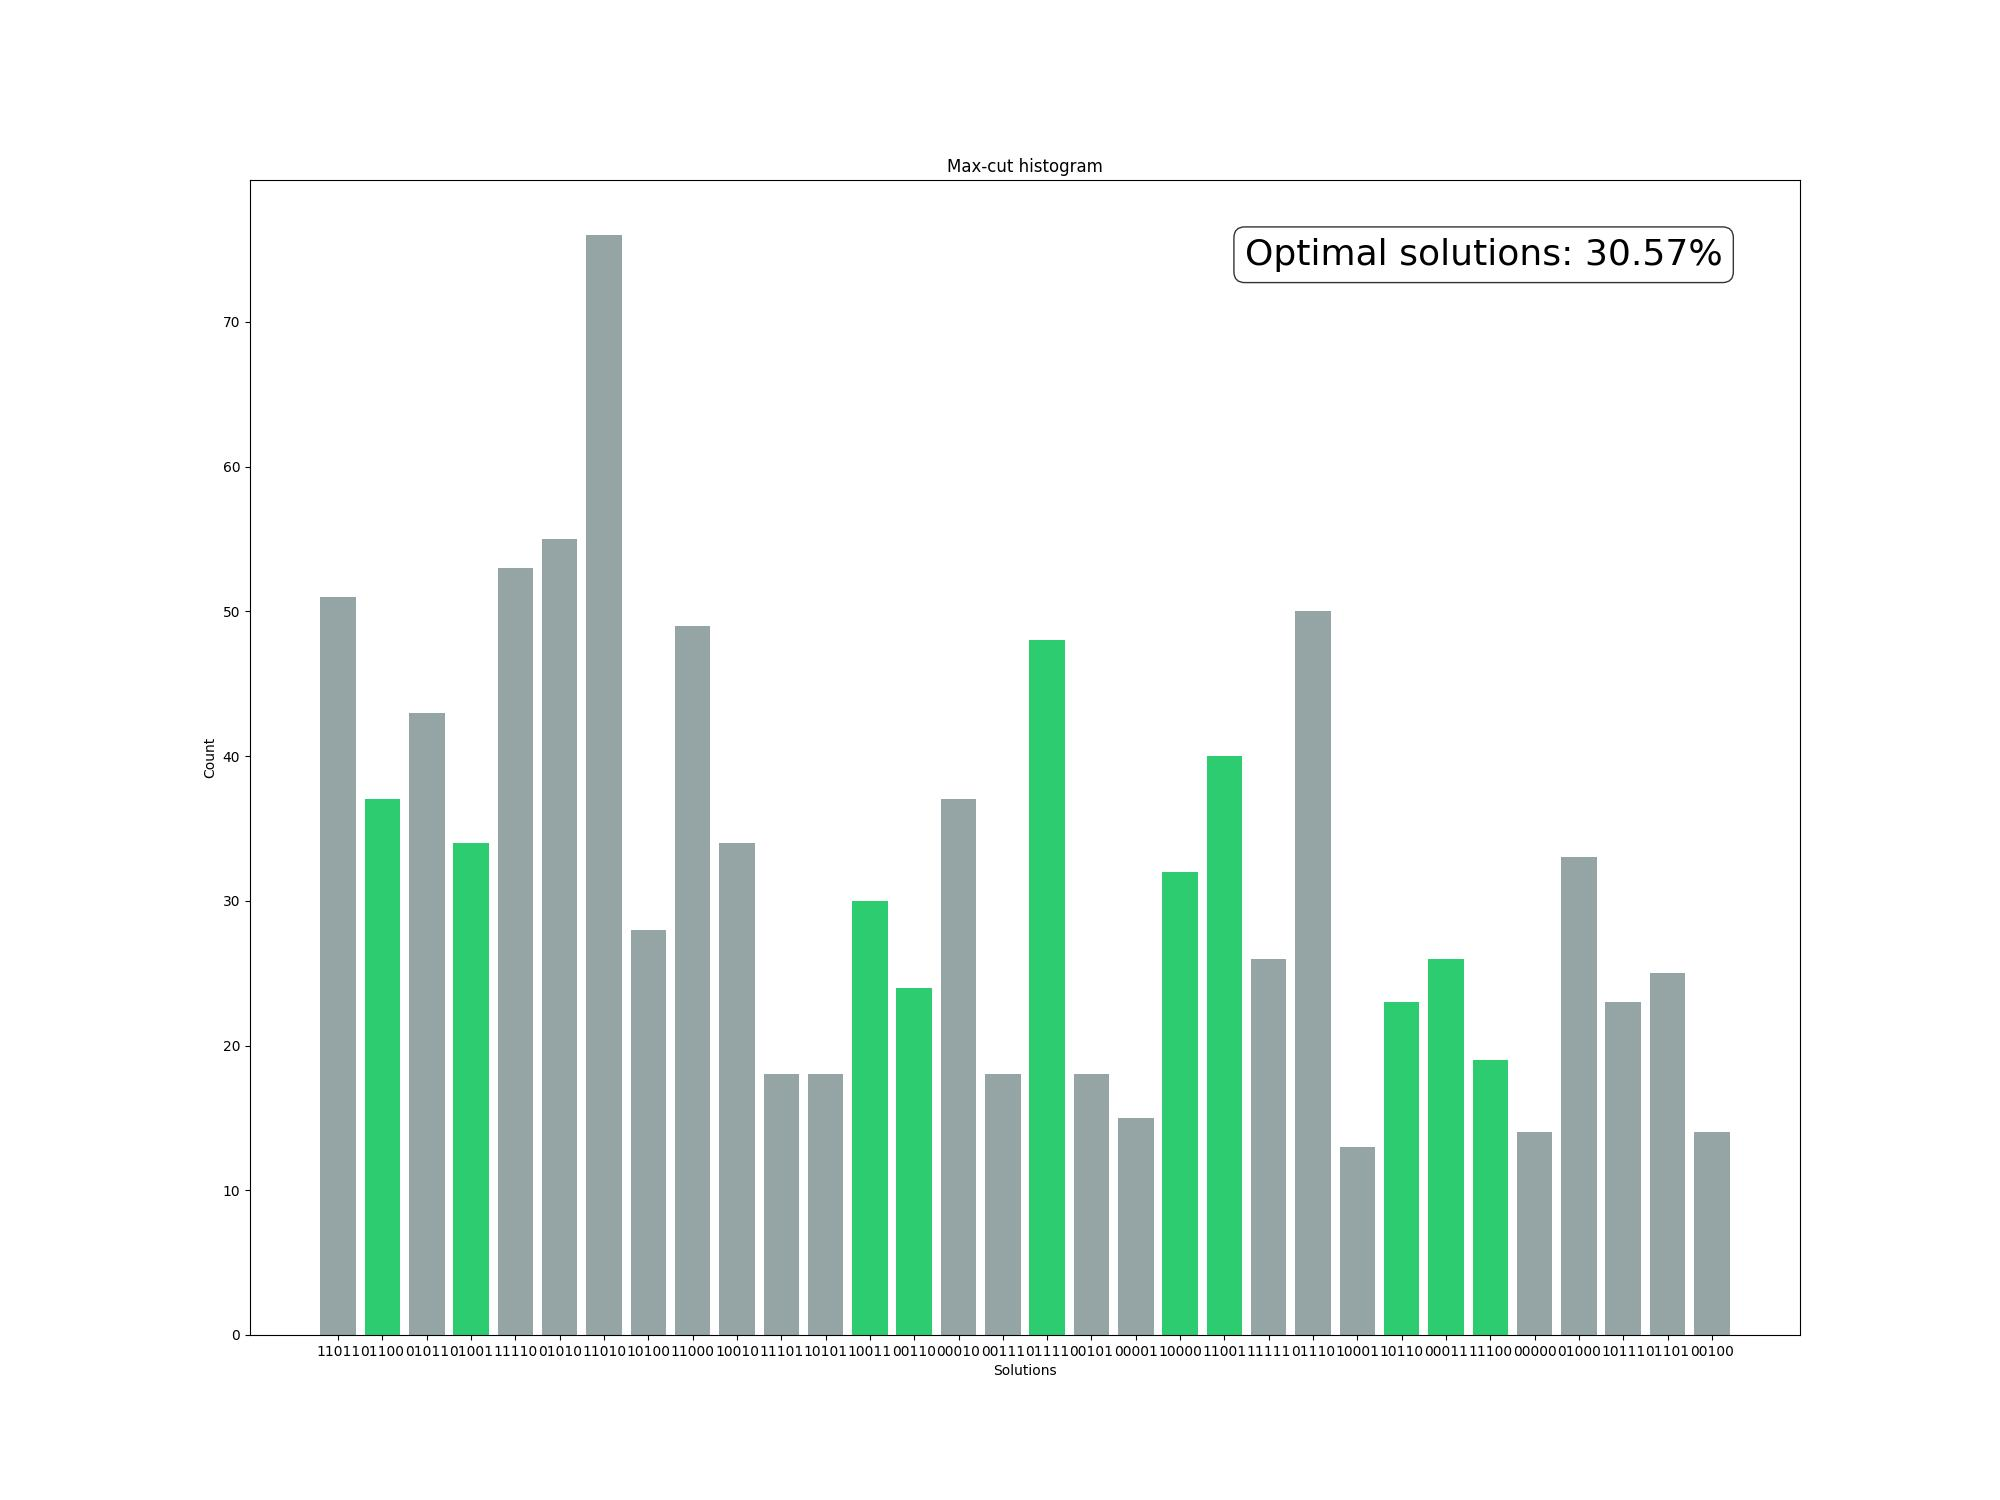
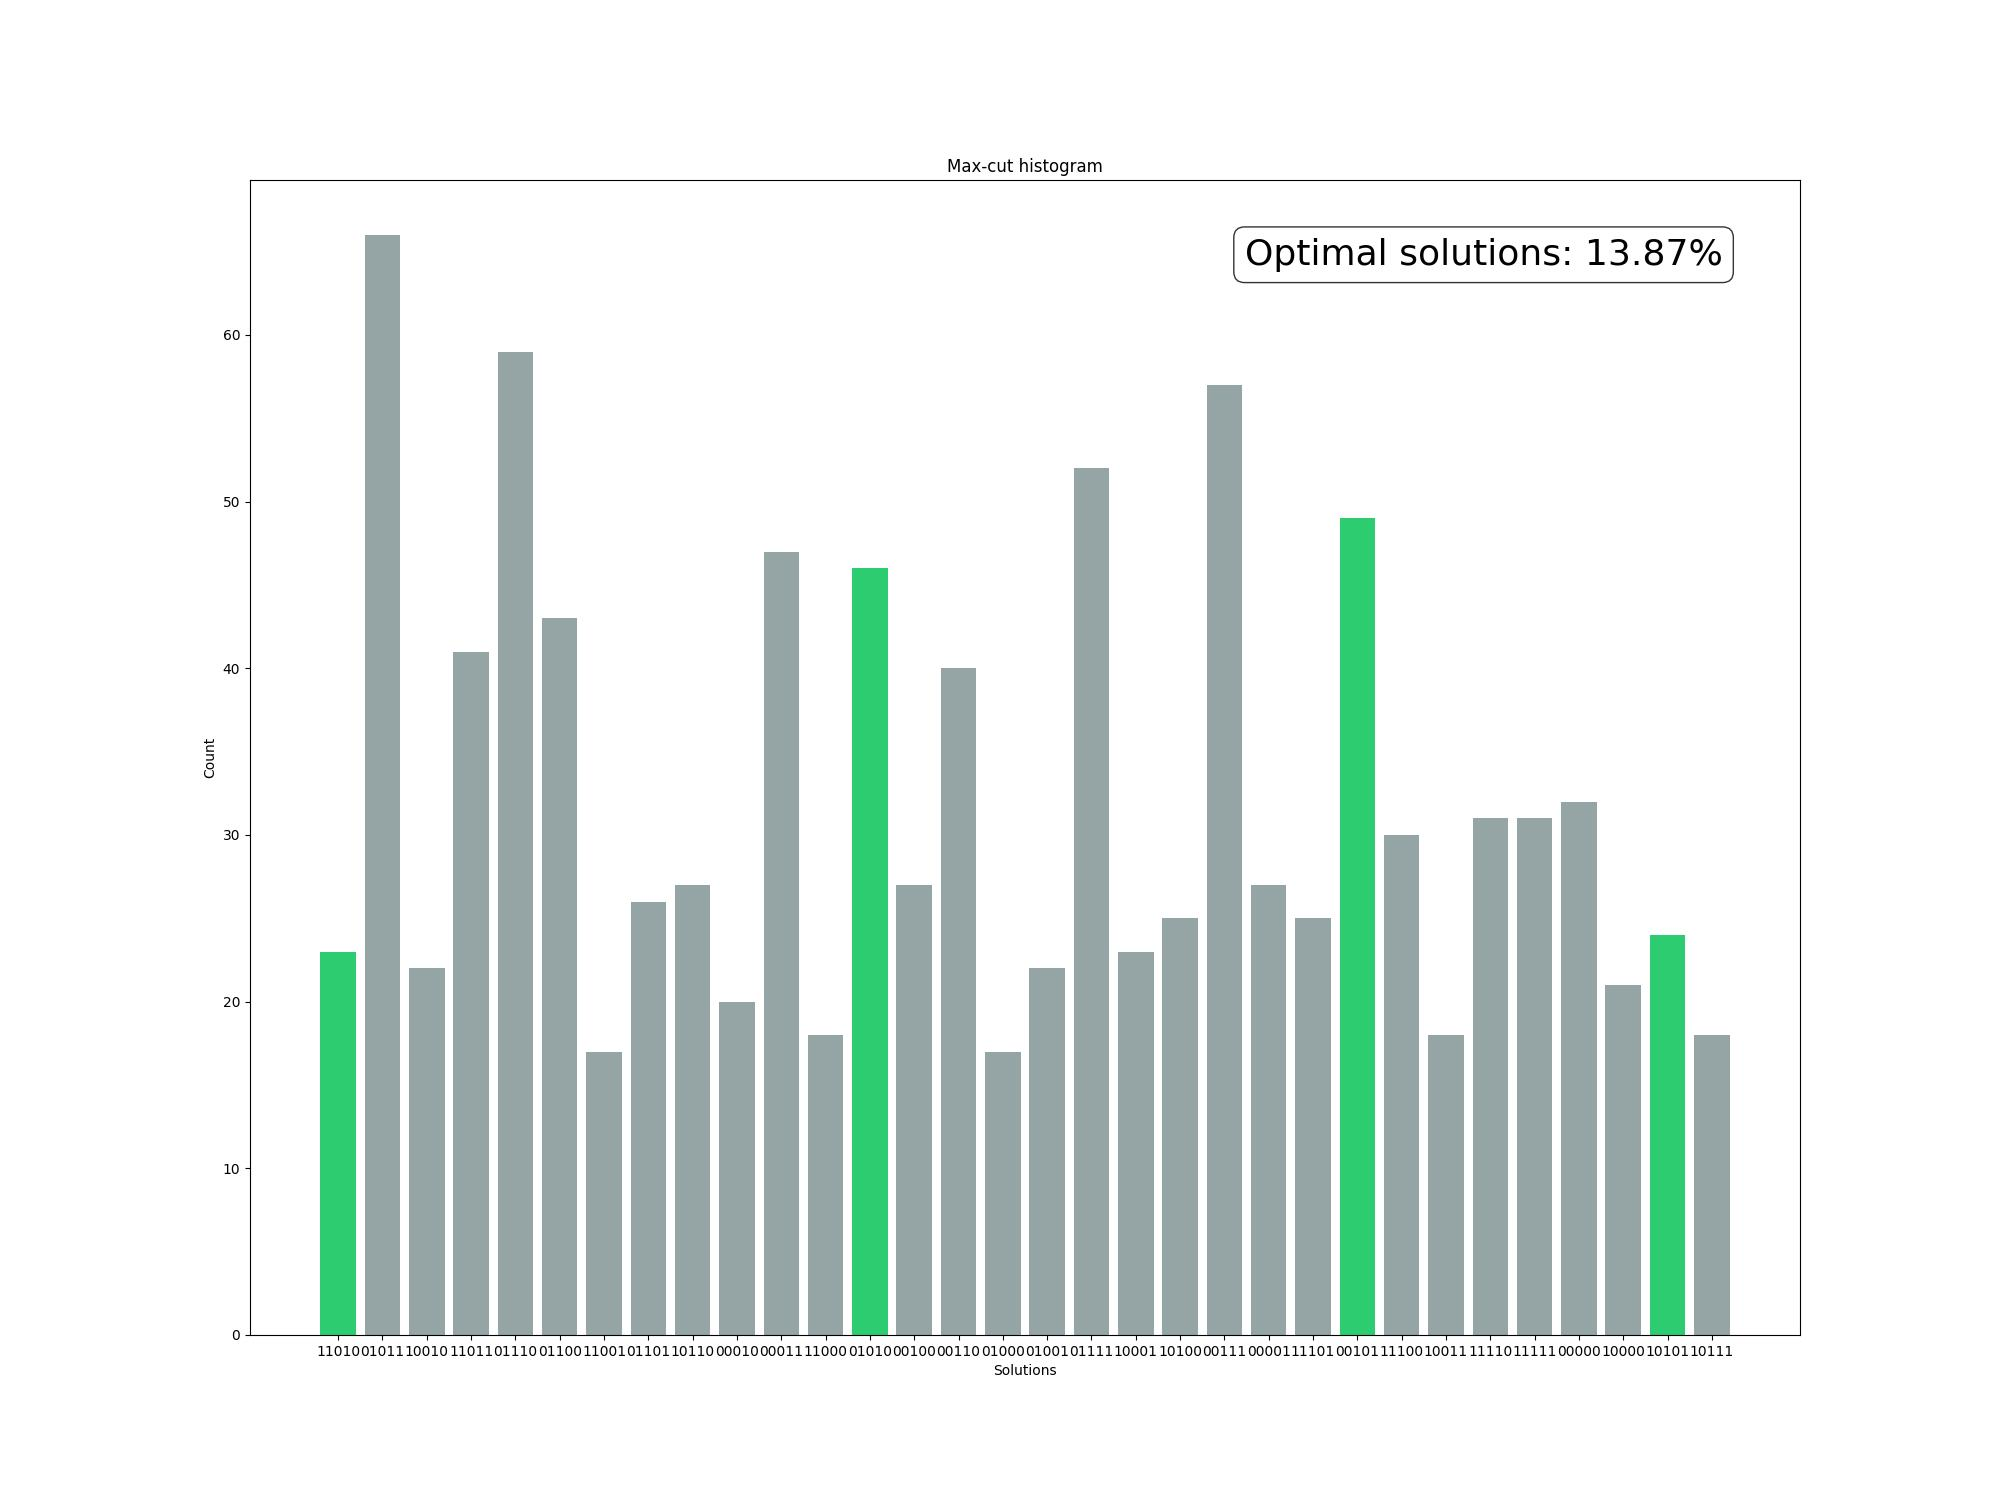
New tests

diff --git a/qi_lib/qaoa.py b/qi_lib/qaoa.py
@@ -93,7 +93,7 @@ def plot_histogram(counts, edges, filename="histogram_result.jpg"):
     """
 
     # THIS SHOULD BE CHANGED DEPENDING ON THE TEST
-    optimal_cut = 4
+    optimal_cut = 6
     optimal_hits = 0
     
     labels, values, colors = [], [], []
